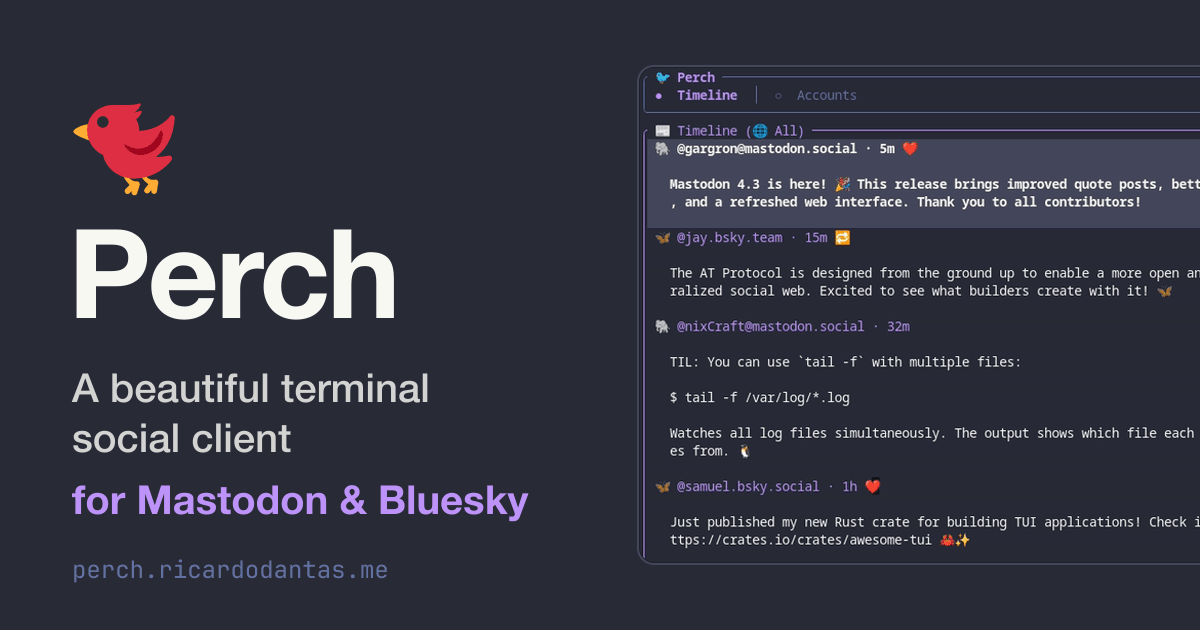
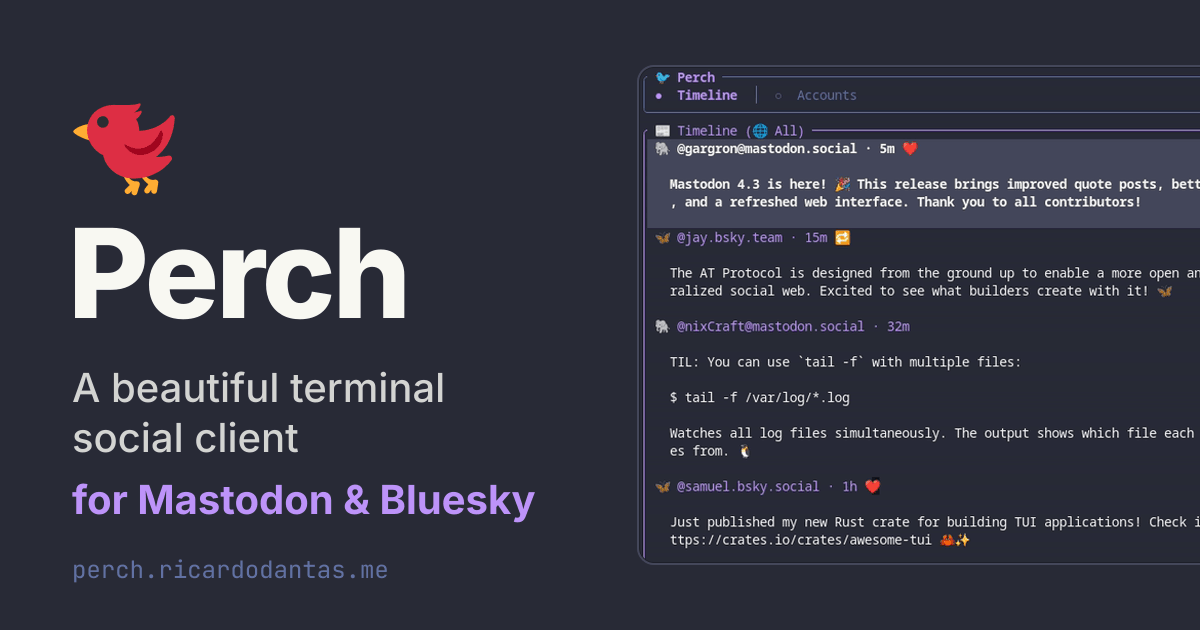
feat(website): set social card text in Inter and JetBrains Mono
The og-image text was drawn by sharp/librsvg with whatever fonts the
machine had (Helvetica Neue and a locally installed JetBrains Mono on the
machine that generated it), so it didn't match the site, which now
self-hosts Inter and JetBrains Mono.

generate-social-images.mjs now shapes each string with fontkit (GSUB and
GPOS, so Inter's kerning applies) from the static @fontsource/inter
(500/700/800) and @fontsource/jetbrains-mono (400) WOFF files, and inlines
the glyph outlines as SVG paths before sharp renders the PNG. The output
no longer depends on installed fonts and is byte-identical across runs.

I tried opentype.js first: it can't parse one of Inter's GSUB lookups,
and its kerning lookup misses Inter's GPOS extension lookups, so it
would have produced unkerned text.

Layout, colours, the Twemoji bird and the screenshot are unchanged.
apple-touch-icon.png has no text and is unchanged. The new packages are
devDependencies used only by this script and have no install scripts.

diff --git a/website/scripts/social/README.md b/website/scripts/social/README.md
@@ -11,3 +11,10 @@ which writes `public/og-image.png` and `public/apple-touch-icon.png`.
   the machine's emoji font.
 
 The card also crops `../../screenshots/01-timeline.png` from the repository root.
+
+Text is set in the site's fonts, Inter (500/700/800) and JetBrains Mono (400),
+from the `@fontsource/inter` and `@fontsource/jetbrains-mono` devDependencies
+(SIL Open Font License 1.1). `fontkit` shapes each string (kerning included)
+and the glyph outlines are inlined as SVG paths, so the result doesn't depend
+on the fonts installed on the machine. These packages are only used by this
+script, never by the site build.
